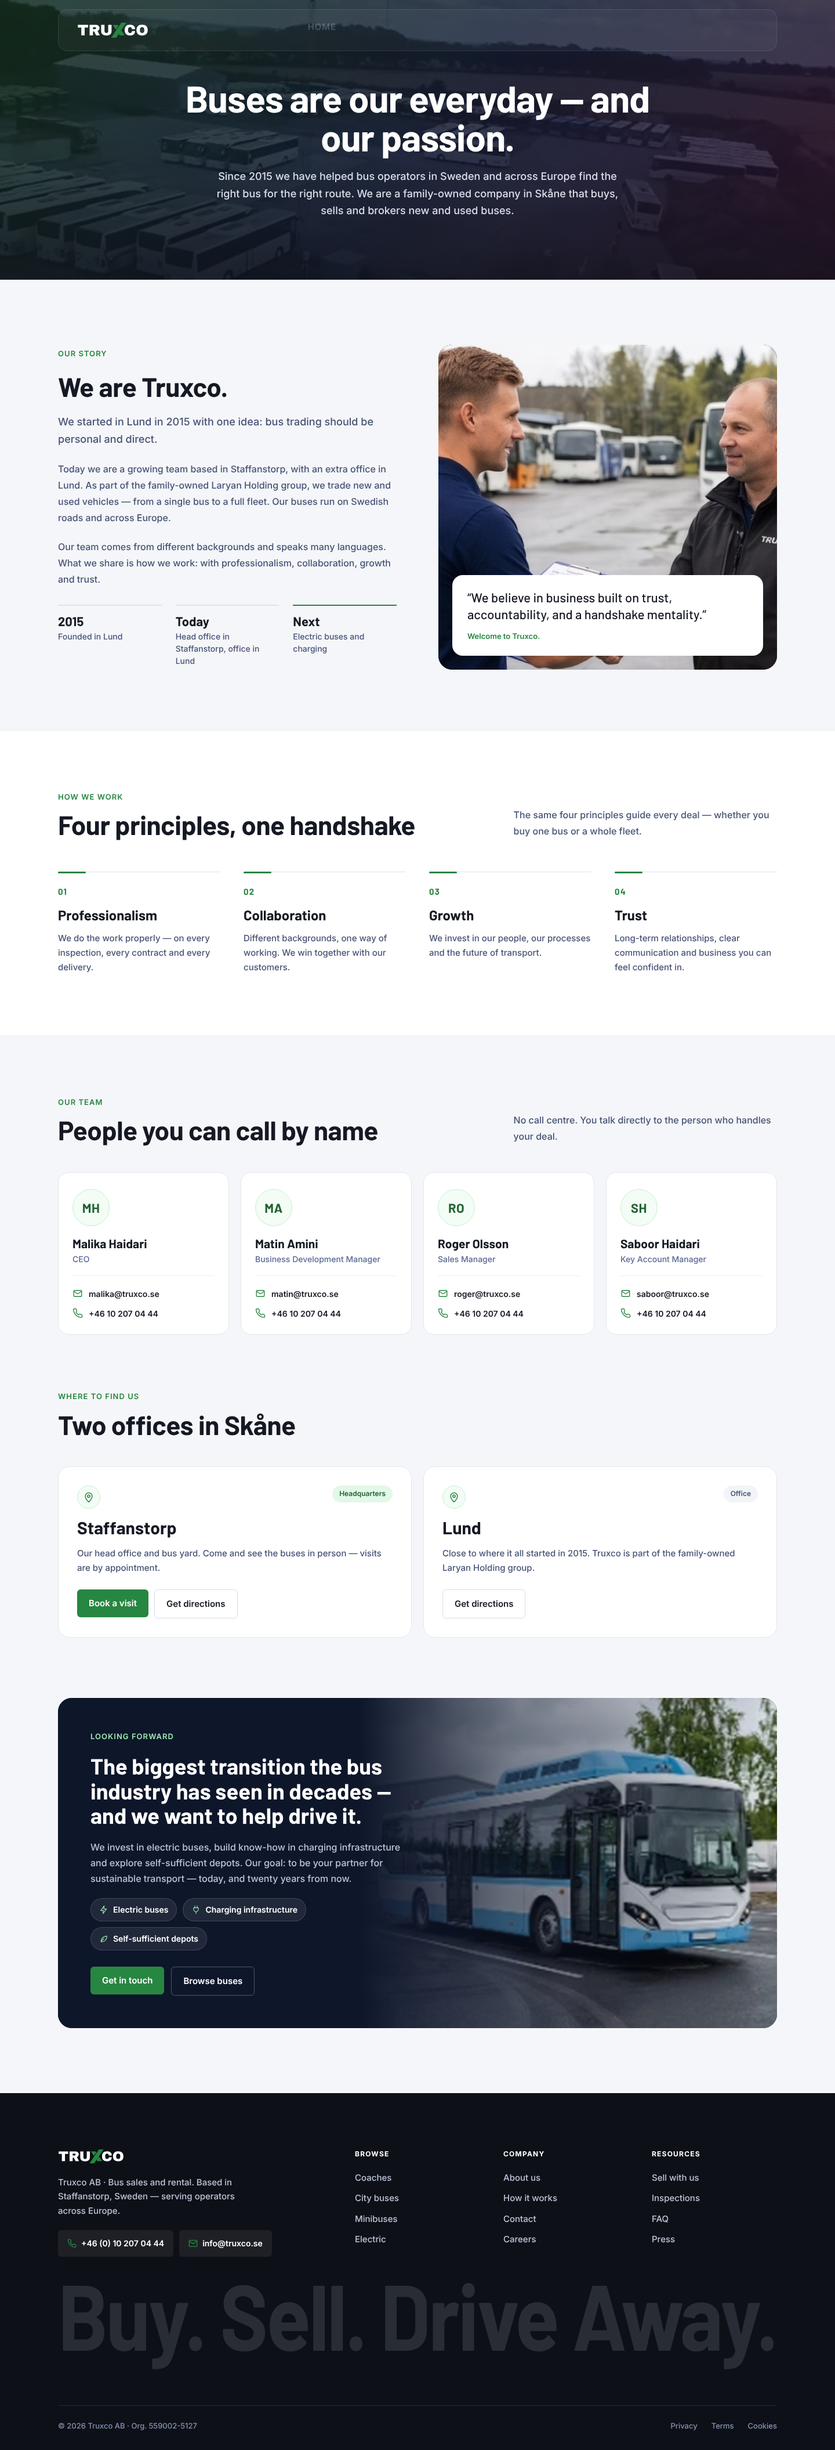
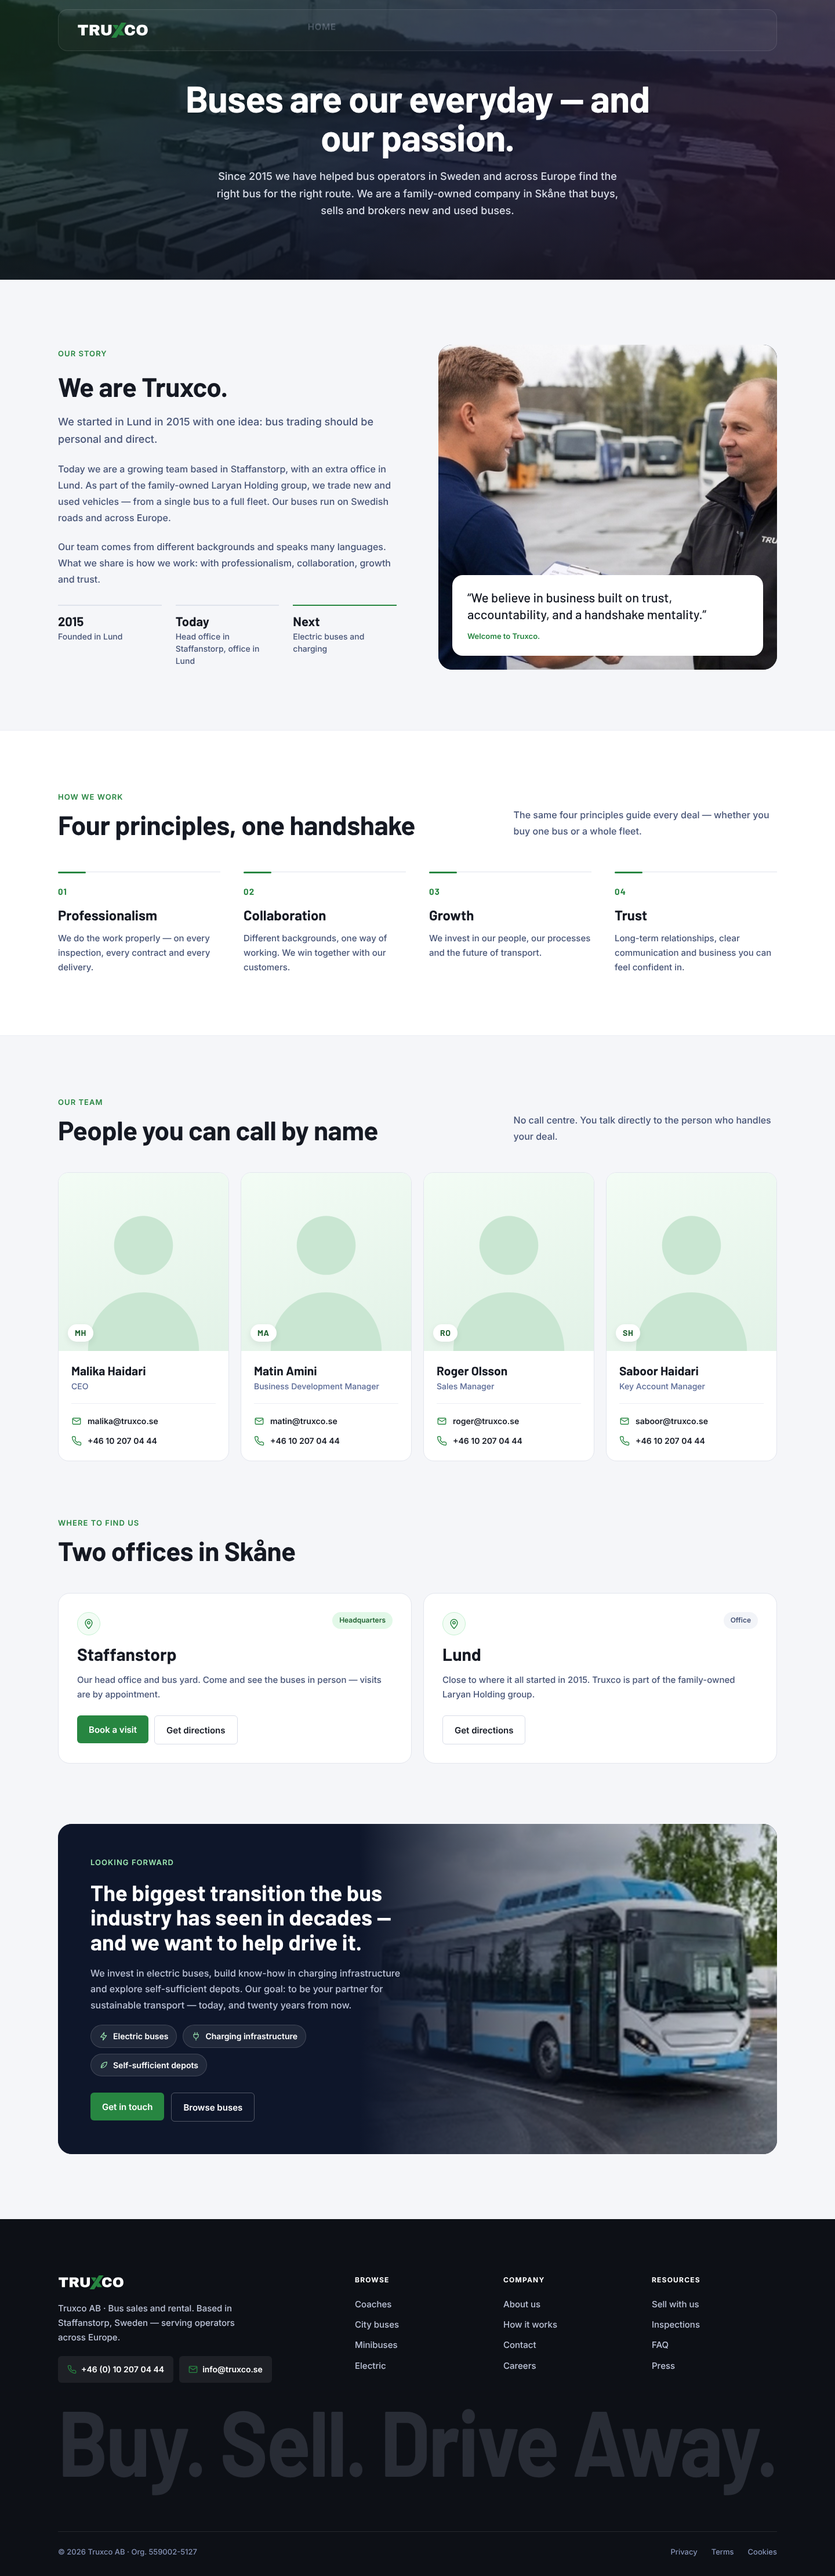
About us: team cards with photo panel
Claude-Session: https://claude.ai/code/session_01CJrfSMbtJkdqaRmDBKHX4E

diff --git a/truxco-design/website-v2/AboutUs.dc.html b/truxco-design/website-v2/AboutUs.dc.html
@@ -299,9 +299,12 @@ a{color:#3050A6}a:hover{color:#151923}
 .ab-pr h3{margin:0;font-family:'Barlow',sans-serif;font-weight:700;font-size:24px;color:#151923}
 .ab-pr p{margin:0;font-size:15px;line-height:1.65;color:#475476}
 .ab-team{display:grid;grid-template-columns:repeat(4,minmax(0,1fr));gap:20px}
-.ab-person{background:#FFFFFF;border:1px solid #E3E6EE;border-radius:18px;padding:28px 24px 24px;display:flex;flex-direction:column;gap:18px;transition:border-color .15s,box-shadow .15s}
+.ab-person{background:#FFFFFF;border:1px solid #E3E6EE;border-radius:18px;overflow:hidden;display:flex;flex-direction:column;transition:border-color .15s,box-shadow .15s}
 .ab-person:hover{border-color:#C5F1D1;box-shadow:0 18px 40px -26px rgba(14,22,42,0.3)}
-.ab-av{width:64px;height:64px;border-radius:50%;background:#F3FCF5;border:1px solid #C5F1D1;box-sizing:border-box;display:flex;align-items:center;justify-content:center;font-family:'Barlow',sans-serif;font-weight:700;font-size:22px;color:#226333;letter-spacing:0.02em}
+.ab-shot{position:relative;aspect-ratio:1/1.05;background:linear-gradient(160deg,#F3FCF5 0%,#E2F2E7 100%);overflow:hidden}
+.ab-shot img,.ab-shot svg.ab-sil{position:absolute;inset:0;width:100%;height:100%;object-fit:cover;object-position:50% 20%}
+.ab-av{position:absolute;left:16px;bottom:16px;height:30px;padding:0 12px;border-radius:999px;background:#FFFFFF;display:inline-flex;align-items:center;font-family:'Barlow',sans-serif;font-weight:700;font-size:14px;color:#226333;letter-spacing:0.04em;box-shadow:0 4px 12px rgba(14,22,42,0.08)}
+.ab-pbody{padding:22px 22px 22px;display:flex;flex-direction:column;gap:18px;flex:1}
 .ab-person h3{margin:0;font-family:'Barlow',sans-serif;font-weight:700;font-size:21px;color:#151923;line-height:1.15}
 .ab-role{font-size:14px;color:#5A6A96}
 .ab-links{display:flex;flex-direction:column;gap:10px;padding-top:18px;border-top:1px solid #ECEEF4}
@@ -447,7 +450,7 @@ a{color:#3050A6}a:hover{color:#151923}
 <div style="display: flex; flex-direction: column; gap: 14px"><span class="ab-eyebrow">Our team</span><h2 id="ab-team-h" class="ab-h2">People you can call by name</h2></div>
 <p class="ab-p" style="max-width: 44ch">No call centre. You talk directly to the person who handles your deal.</p>
 </div>
-<div class="ab-team"><article class="ab-person"><span class="ab-av" aria-hidden="true">MH</span><div style="display: flex; flex-direction: column; gap: 4px"><h3>Malika Haidari</h3><span class="ab-role">CEO</span></div><div class="ab-links"><a class="ab-link" href="mailto:malika@truxco.se"><svg aria-hidden="true" width="20" height="20" viewBox="0 0 24 24" fill="none" stroke="#278641" stroke-width="1.8" stroke-linecap="round" stroke-linejoin="round" style="flex: none"><rect x="3" y="5" width="18" height="14" rx="2"></rect><path d="M3 7l9 6 9-6"></path></svg>malika@truxco.se</a><a class="ab-link" href="tel:+46102070444" aria-label="Call Malika"><svg aria-hidden="true" width="20" height="20" viewBox="0 0 24 24" fill="none" stroke="#278641" stroke-width="1.8" stroke-linecap="round" stroke-linejoin="round" style="flex: none"><path d="M22 16.9v3a2 2 0 0 1-2.2 2 19.8 19.8 0 0 1-8.6-3.1 19.5 19.5 0 0 1-6-6A19.8 19.8 0 0 1 2.1 4.2 2 2 0 0 1 4.1 2h3a2 2 0 0 1 2 1.7c.1.9.4 1.8.7 2.7a2 2 0 0 1-.5 2.1L8 9.8a16 16 0 0 0 6 6l1.3-1.3a2 2 0 0 1 2.1-.4c.9.3 1.8.6 2.7.7a2 2 0 0 1 1.7 2z"></path></svg>+46 10 207 04 44</a></div></article><article class="ab-person"><span class="ab-av" aria-hidden="true">MA</span><div style="display: flex; flex-direction: column; gap: 4px"><h3>Matin Amini</h3><span class="ab-role">Business Development Manager</span></div><div class="ab-links"><a class="ab-link" href="mailto:matin@truxco.se"><svg aria-hidden="true" width="20" height="20" viewBox="0 0 24 24" fill="none" stroke="#278641" stroke-width="1.8" stroke-linecap="round" stroke-linejoin="round" style="flex: none"><rect x="3" y="5" width="18" height="14" rx="2"></rect><path d="M3 7l9 6 9-6"></path></svg>matin@truxco.se</a><a class="ab-link" href="tel:+46102070444" aria-label="Call Matin"><svg aria-hidden="true" width="20" height="20" viewBox="0 0 24 24" fill="none" stroke="#278641" stroke-width="1.8" stroke-linecap="round" stroke-linejoin="round" style="flex: none"><path d="M22 16.9v3a2 2 0 0 1-2.2 2 19.8 19.8 0 0 1-8.6-3.1 19.5 19.5 0 0 1-6-6A19.8 19.8 0 0 1 2.1 4.2 2 2 0 0 1 4.1 2h3a2 2 0 0 1 2 1.7c.1.9.4 1.8.7 2.7a2 2 0 0 1-.5 2.1L8 9.8a16 16 0 0 0 6 6l1.3-1.3a2 2 0 0 1 2.1-.4c.9.3 1.8.6 2.7.7a2 2 0 0 1 1.7 2z"></path></svg>+46 10 207 04 44</a></div></article><article class="ab-person"><span class="ab-av" aria-hidden="true">RO</span><div style="display: flex; flex-direction: column; gap: 4px"><h3>Roger Olsson</h3><span class="ab-role">Sales Manager</span></div><div class="ab-links"><a class="ab-link" href="mailto:roger@truxco.se"><svg aria-hidden="true" width="20" height="20" viewBox="0 0 24 24" fill="none" stroke="#278641" stroke-width="1.8" stroke-linecap="round" stroke-linejoin="round" style="flex: none"><rect x="3" y="5" width="18" height="14" rx="2"></rect><path d="M3 7l9 6 9-6"></path></svg>roger@truxco.se</a><a class="ab-link" href="tel:+46102070444" aria-label="Call Roger"><svg aria-hidden="true" width="20" height="20" viewBox="0 0 24 24" fill="none" stroke="#278641" stroke-width="1.8" stroke-linecap="round" stroke-linejoin="round" style="flex: none"><path d="M22 16.9v3a2 2 0 0 1-2.2 2 19.8 19.8 0 0 1-8.6-3.1 19.5 19.5 0 0 1-6-6A19.8 19.8 0 0 1 2.1 4.2 2 2 0 0 1 4.1 2h3a2 2 0 0 1 2 1.7c.1.9.4 1.8.7 2.7a2 2 0 0 1-.5 2.1L8 9.8a16 16 0 0 0 6 6l1.3-1.3a2 2 0 0 1 2.1-.4c.9.3 1.8.6 2.7.7a2 2 0 0 1 1.7 2z"></path></svg>+46 10 207 04 44</a></div></article><article class="ab-person"><span class="ab-av" aria-hidden="true">SH</span><div style="display: flex; flex-direction: column; gap: 4px"><h3>Saboor Haidari</h3><span class="ab-role">Key Account Manager</span></div><div class="ab-links"><a class="ab-link" href="mailto:saboor@truxco.se"><svg aria-hidden="true" width="20" height="20" viewBox="0 0 24 24" fill="none" stroke="#278641" stroke-width="1.8" stroke-linecap="round" stroke-linejoin="round" style="flex: none"><rect x="3" y="5" width="18" height="14" rx="2"></rect><path d="M3 7l9 6 9-6"></path></svg>saboor@truxco.se</a><a class="ab-link" href="tel:+46102070444" aria-label="Call Saboor"><svg aria-hidden="true" width="20" height="20" viewBox="0 0 24 24" fill="none" stroke="#278641" stroke-width="1.8" stroke-linecap="round" stroke-linejoin="round" style="flex: none"><path d="M22 16.9v3a2 2 0 0 1-2.2 2 19.8 19.8 0 0 1-8.6-3.1 19.5 19.5 0 0 1-6-6A19.8 19.8 0 0 1 2.1 4.2 2 2 0 0 1 4.1 2h3a2 2 0 0 1 2 1.7c.1.9.4 1.8.7 2.7a2 2 0 0 1-.5 2.1L8 9.8a16 16 0 0 0 6 6l1.3-1.3a2 2 0 0 1 2.1-.4c.9.3 1.8.6 2.7.7a2 2 0 0 1 1.7 2z"></path></svg>+46 10 207 04 44</a></div></article></div>
+<div class="ab-team"><article class="ab-person"><div class="ab-shot" role="img" aria-label="Photo of Malika Haidari"><svg class="ab-sil" aria-hidden="true" viewBox="0 0 300 315" preserveAspectRatio="xMidYMax slice"><circle cx="150" cy="128" r="52" fill="#C9E6D2"></circle><path d="M52 315c0-62 44-104 98-104s98 42 98 104z" fill="#C9E6D2"></path></svg><span class="ab-av" aria-hidden="true">MH</span></div><div class="ab-pbody"><div style="display: flex; flex-direction: column; gap: 4px"><h3>Malika Haidari</h3><span class="ab-role">CEO</span></div><div class="ab-links"><a class="ab-link" href="mailto:malika@truxco.se"><svg aria-hidden="true" width="20" height="20" viewBox="0 0 24 24" fill="none" stroke="#278641" stroke-width="1.8" stroke-linecap="round" stroke-linejoin="round" style="flex: none"><rect x="3" y="5" width="18" height="14" rx="2"></rect><path d="M3 7l9 6 9-6"></path></svg>malika@truxco.se</a><a class="ab-link" href="tel:+46102070444" aria-label="Call Malika"><svg aria-hidden="true" width="20" height="20" viewBox="0 0 24 24" fill="none" stroke="#278641" stroke-width="1.8" stroke-linecap="round" stroke-linejoin="round" style="flex: none"><path d="M22 16.9v3a2 2 0 0 1-2.2 2 19.8 19.8 0 0 1-8.6-3.1 19.5 19.5 0 0 1-6-6A19.8 19.8 0 0 1 2.1 4.2 2 2 0 0 1 4.1 2h3a2 2 0 0 1 2 1.7c.1.9.4 1.8.7 2.7a2 2 0 0 1-.5 2.1L8 9.8a16 16 0 0 0 6 6l1.3-1.3a2 2 0 0 1 2.1-.4c.9.3 1.8.6 2.7.7a2 2 0 0 1 1.7 2z"></path></svg>+46 10 207 04 44</a></div></div></article><article class="ab-person"><div class="ab-shot" role="img" aria-label="Photo of Matin Amini"><svg class="ab-sil" aria-hidden="true" viewBox="0 0 300 315" preserveAspectRatio="xMidYMax slice"><circle cx="150" cy="128" r="52" fill="#C9E6D2"></circle><path d="M52 315c0-62 44-104 98-104s98 42 98 104z" fill="#C9E6D2"></path></svg><span class="ab-av" aria-hidden="true">MA</span></div><div class="ab-pbody"><div style="display: flex; flex-direction: column; gap: 4px"><h3>Matin Amini</h3><span class="ab-role">Business Development Manager</span></div><div class="ab-links"><a class="ab-link" href="mailto:matin@truxco.se"><svg aria-hidden="true" width="20" height="20" viewBox="0 0 24 24" fill="none" stroke="#278641" stroke-width="1.8" stroke-linecap="round" stroke-linejoin="round" style="flex: none"><rect x="3" y="5" width="18" height="14" rx="2"></rect><path d="M3 7l9 6 9-6"></path></svg>matin@truxco.se</a><a class="ab-link" href="tel:+46102070444" aria-label="Call Matin"><svg aria-hidden="true" width="20" height="20" viewBox="0 0 24 24" fill="none" stroke="#278641" stroke-width="1.8" stroke-linecap="round" stroke-linejoin="round" style="flex: none"><path d="M22 16.9v3a2 2 0 0 1-2.2 2 19.8 19.8 0 0 1-8.6-3.1 19.5 19.5 0 0 1-6-6A19.8 19.8 0 0 1 2.1 4.2 2 2 0 0 1 4.1 2h3a2 2 0 0 1 2 1.7c.1.9.4 1.8.7 2.7a2 2 0 0 1-.5 2.1L8 9.8a16 16 0 0 0 6 6l1.3-1.3a2 2 0 0 1 2.1-.4c.9.3 1.8.6 2.7.7a2 2 0 0 1 1.7 2z"></path></svg>+46 10 207 04 44</a></div></div></article><article class="ab-person"><div class="ab-shot" role="img" aria-label="Photo of Roger Olsson"><svg class="ab-sil" aria-hidden="true" viewBox="0 0 300 315" preserveAspectRatio="xMidYMax slice"><circle cx="150" cy="128" r="52" fill="#C9E6D2"></circle><path d="M52 315c0-62 44-104 98-104s98 42 98 104z" fill="#C9E6D2"></path></svg><span class="ab-av" aria-hidden="true">RO</span></div><div class="ab-pbody"><div style="display: flex; flex-direction: column; gap: 4px"><h3>Roger Olsson</h3><span class="ab-role">Sales Manager</span></div><div class="ab-links"><a class="ab-link" href="mailto:roger@truxco.se"><svg aria-hidden="true" width="20" height="20" viewBox="0 0 24 24" fill="none" stroke="#278641" stroke-width="1.8" stroke-linecap="round" stroke-linejoin="round" style="flex: none"><rect x="3" y="5" width="18" height="14" rx="2"></rect><path d="M3 7l9 6 9-6"></path></svg>roger@truxco.se</a><a class="ab-link" href="tel:+46102070444" aria-label="Call Roger"><svg aria-hidden="true" width="20" height="20" viewBox="0 0 24 24" fill="none" stroke="#278641" stroke-width="1.8" stroke-linecap="round" stroke-linejoin="round" style="flex: none"><path d="M22 16.9v3a2 2 0 0 1-2.2 2 19.8 19.8 0 0 1-8.6-3.1 19.5 19.5 0 0 1-6-6A19.8 19.8 0 0 1 2.1 4.2 2 2 0 0 1 4.1 2h3a2 2 0 0 1 2 1.7c.1.9.4 1.8.7 2.7a2 2 0 0 1-.5 2.1L8 9.8a16 16 0 0 0 6 6l1.3-1.3a2 2 0 0 1 2.1-.4c.9.3 1.8.6 2.7.7a2 2 0 0 1 1.7 2z"></path></svg>+46 10 207 04 44</a></div></div></article><article class="ab-person"><div class="ab-shot" role="img" aria-label="Photo of Saboor Haidari"><svg class="ab-sil" aria-hidden="true" viewBox="0 0 300 315" preserveAspectRatio="xMidYMax slice"><circle cx="150" cy="128" r="52" fill="#C9E6D2"></circle><path d="M52 315c0-62 44-104 98-104s98 42 98 104z" fill="#C9E6D2"></path></svg><span class="ab-av" aria-hidden="true">SH</span></div><div class="ab-pbody"><div style="display: flex; flex-direction: column; gap: 4px"><h3>Saboor Haidari</h3><span class="ab-role">Key Account Manager</span></div><div class="ab-links"><a class="ab-link" href="mailto:saboor@truxco.se"><svg aria-hidden="true" width="20" height="20" viewBox="0 0 24 24" fill="none" stroke="#278641" stroke-width="1.8" stroke-linecap="round" stroke-linejoin="round" style="flex: none"><rect x="3" y="5" width="18" height="14" rx="2"></rect><path d="M3 7l9 6 9-6"></path></svg>saboor@truxco.se</a><a class="ab-link" href="tel:+46102070444" aria-label="Call Saboor"><svg aria-hidden="true" width="20" height="20" viewBox="0 0 24 24" fill="none" stroke="#278641" stroke-width="1.8" stroke-linecap="round" stroke-linejoin="round" style="flex: none"><path d="M22 16.9v3a2 2 0 0 1-2.2 2 19.8 19.8 0 0 1-8.6-3.1 19.5 19.5 0 0 1-6-6A19.8 19.8 0 0 1 2.1 4.2 2 2 0 0 1 4.1 2h3a2 2 0 0 1 2 1.7c.1.9.4 1.8.7 2.7a2 2 0 0 1-.5 2.1L8 9.8a16 16 0 0 0 6 6l1.3-1.3a2 2 0 0 1 2.1-.4c.9.3 1.8.6 2.7.7a2 2 0 0 1 1.7 2z"></path></svg>+46 10 207 04 44</a></div></div></article></div>
 </div>
 </section>
 
@@ -513,7 +516,7 @@ a{color:#3050A6}a:hover{color:#151923}
 
 </div>
 </x-dc>
-<script type="text/x-dc" data-dc-script data-props='{"$preview":{"width":1440,"height":4200}}'>
+<script type="text/x-dc" data-dc-script data-props='{"$preview":{"width":1440,"height":4440}}'>
 class Component extends DCLogic {
   componentDidMount() {
     try { this.ofKey = (e) => { if (e.key === 'Escape' && this.state && this.state.offerOpen) this.setState({ offerOpen: false, offerSent: false }); }; window.addEventListener('keydown', this.ofKey); } catch (e) {}
